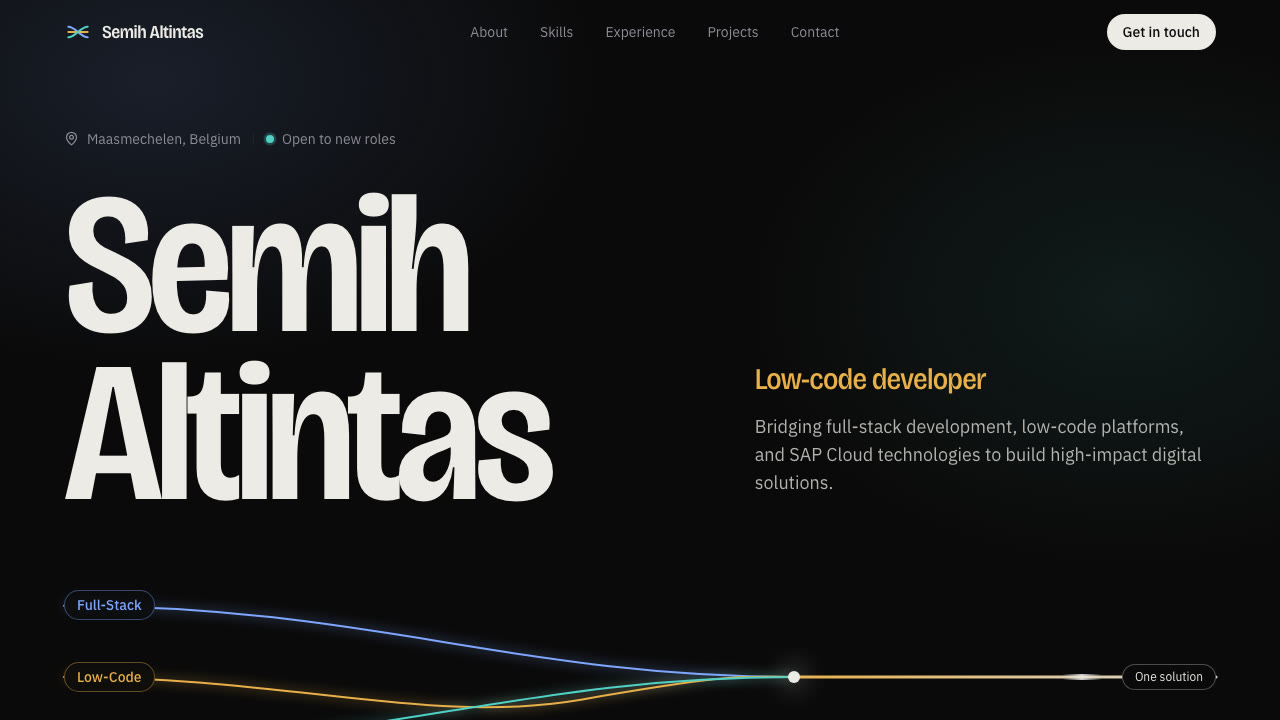
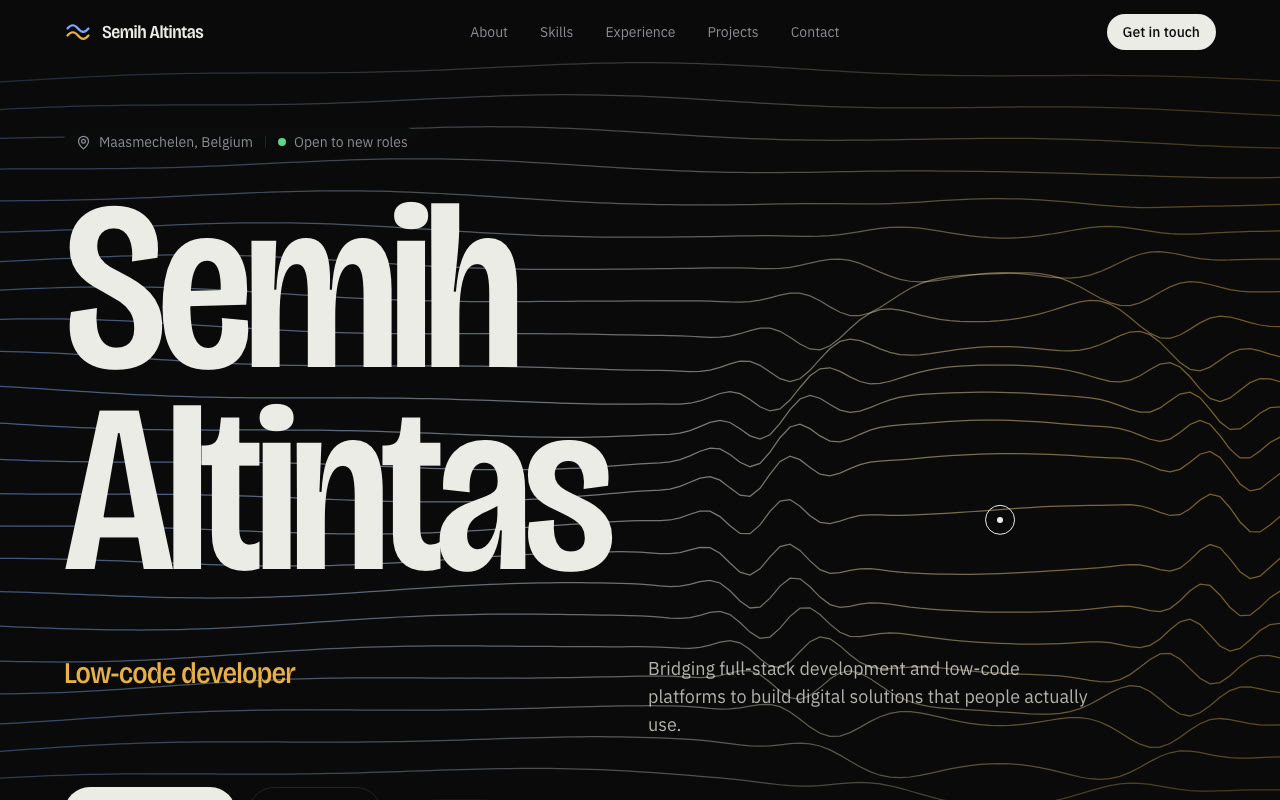
Add 'Into AI', Invixta and an AI & agents row; refresh the portfolio card

diff --git a/README.md b/README.md
@@ -1,11 +1,18 @@
-<img src="assets/header.svg" alt="Semih Altintas, Full-Stack & Low-Code Developer, SAP BTP Specialist" width="100%">
+<img src="assets/header.svg" alt="Semih Altintas, Full-Stack & Low-Code Developer, AI enthusiast" width="100%">
 
 ### Hi, I'm Semih
 
 I'm an application developer from Belgium with a Bachelor in Applied Computer Science. I work where **full-stack development**, **low-code platforms** and **SAP Cloud** meet: some problems need hand-written Java or .NET, others are solved faster with a Power Automate flow or a CAP service on SAP BTP. I pick the right tool instead of the familiar one.
 
+### Into AI
+
+I'm an **AI enthusiast**. When I need to figure something out, I reach for AI first, and more and more for **AI agents** that look things up and take the next step on their own. In my free time I watch and read a lot about where AI is heading, and I experiment with it myself.
+
+Want to see what that looks like? Have a look at the **[projects on my GitHub](https://github.com/InviXtaHydra?tab=repositories)**, starting with **[Invixta](https://github.com/InviXtaHydra/invixta)**: a web shop with an AI support agent that runs on a local model, searches the shop's documents with RAG and asks before it acts.
+
 - Open to new roles as a full-stack, low-code or SAP BTP developer
-- Latest project: **[IMDBee](https://imdbee.vercel.app)**, a movie catalog with Spring Boot, Vue 3 and Supabase
+- Latest project: **[Invixta](https://github.com/InviXtaHydra/invixta)**, a football-shirt web shop with a local AI support agent (FastAPI, PostgreSQL + pgvector, Ollama, React)
+- Portfolio: **[semih-portfolio-zeta.vercel.app](https://semih-portfolio-zeta.vercel.app)**
 - Used to Agile/Scrum teams: stand-ups, refinements, sprint reviews and code reviews
 - Languages: Dutch and Turkish (native), English (fluent), French (basic)
 
@@ -29,6 +36,13 @@ I'm an application developer from Belgium with a Bachelor in Applied Computer Sc
 ![Event Mesh](https://img.shields.io/badge/Event_Mesh-0FAAFF?style=for-the-badge&logo=sap&logoColor=white)
 ![OData](https://img.shields.io/badge/OData-0FAAFF?style=for-the-badge&logo=sap&logoColor=white)
 
+**AI & agents**<br>
+![Ollama](https://img.shields.io/badge/Ollama_(local_LLMs)-000000?style=for-the-badge&logo=ollama&logoColor=white)
+![AI agents](https://img.shields.io/badge/AI_agents_&_tool_calling-6E40C9?style=for-the-badge)
+![RAG](https://img.shields.io/badge/RAG-6E40C9?style=for-the-badge)
+![pgvector](https://img.shields.io/badge/pgvector-4169E1?style=for-the-badge&logo=postgresql&logoColor=white)
+![FastAPI](https://img.shields.io/badge/FastAPI-009688?style=for-the-badge&logo=fastapi&logoColor=white)
+
 **Low-code & no-code**<br>
 ![Power Apps](https://img.shields.io/badge/Power_Apps-742774?style=for-the-badge)
 ![Power Automate](https://img.shields.io/badge/Power_Automate-0066FF?style=for-the-badge)
@@ -47,6 +61,18 @@ I'm an application developer from Belgium with a Bachelor in Applied Computer Sc
 <table>
   <tr>
     <td width="50%" valign="top">
+      <a href="https://github.com/InviXtaHydra/invixta"><img src="assets/invixta.jpg" alt="Invixta shop with the AI support assistant answering a question" width="100%"></a>
+      <h3><a href="https://github.com/InviXtaHydra/invixta">Invixta</a></h3>
+      <p>Football-shirt web shop with an AI support agent. It answers from real orders, stock and policy documents (RAG), runs on a local model in Ollama and asks the customer before it cancels anything.</p>
+      <p>
+        <img src="https://img.shields.io/badge/FastAPI-009688?style=flat-square&logo=fastapi&logoColor=white" alt="FastAPI">
+        <img src="https://img.shields.io/badge/pgvector-4169E1?style=flat-square&logo=postgresql&logoColor=white" alt="PostgreSQL + pgvector">
+        <img src="https://img.shields.io/badge/Ollama-000000?style=flat-square&logo=ollama&logoColor=white" alt="Ollama">
+        <img src="https://img.shields.io/badge/React_19-20232A?style=flat-square&logo=react&logoColor=61DAFB" alt="React 19">
+      </p>
+      <a href="https://semih-portfolio-zeta.vercel.app/#projects"><b>Demo video</b></a> · <a href="https://github.com/InviXtaHydra/invixta"><b>Code</b></a>
+    </td>
+    <td width="50%" valign="top">
       <a href="https://imdbee.vercel.app"><img src="assets/imdbee.jpg" alt="IMDBee home page" width="100%"></a>
       <h3><a href="https://imdbee.vercel.app">IMDBee</a></h3>
       <p>Movie catalog with accounts, search and filters, star reviews and trailers. Live data from TMDB through a secured Spring Boot API.</p>
@@ -58,17 +84,20 @@ I'm an application developer from Belgium with a Bachelor in Applied Computer Sc
       </p>
       <a href="https://imdbee.vercel.app"><b>Live demo</b></a> · <a href="https://github.com/InviXtaHydra/imdbee"><b>Code</b></a>
     </td>
+  </tr>
+  <tr>
     <td width="50%" valign="top">
-      <a href="https://github.com/InviXtaHydra/semih-portfolio"><img src="assets/portfolio.jpg" alt="Portfolio home page" width="100%"></a>
+      <a href="https://semih-portfolio-zeta.vercel.app"><img src="assets/portfolio.jpg" alt="Portfolio hero with interactive wave lines" width="100%"></a>
       <h3><a href="https://github.com/InviXtaHydra/semih-portfolio">Developer portfolio</a></h3>
-      <p>My personal portfolio: skills, experience and projects, with a filterable project grid and demo videos.</p>
+      <p>My personal portfolio: a hero of wave lines that bend around your mouse (click to send a shockwave), skills, experience and projects with demo videos.</p>
       <p>
         <img src="https://img.shields.io/badge/React-20232A?style=flat-square&logo=react&logoColor=61DAFB" alt="React">
         <img src="https://img.shields.io/badge/Tailwind_CSS-0F172A?style=flat-square&logo=tailwindcss&logoColor=38BDF8" alt="Tailwind CSS">
         <img src="https://img.shields.io/badge/Framer_Motion-000000?style=flat-square&logo=framer&logoColor=white" alt="Framer Motion">
       </p>
-      <a href="https://github.com/InviXtaHydra/semih-portfolio"><b>Code</b></a>
+      <a href="https://semih-portfolio-zeta.vercel.app"><b>Live</b></a> · <a href="https://github.com/InviXtaHydra/semih-portfolio"><b>Code</b></a>
     </td>
+    <td width="50%" valign="top"></td>
   </tr>
 </table>
 
